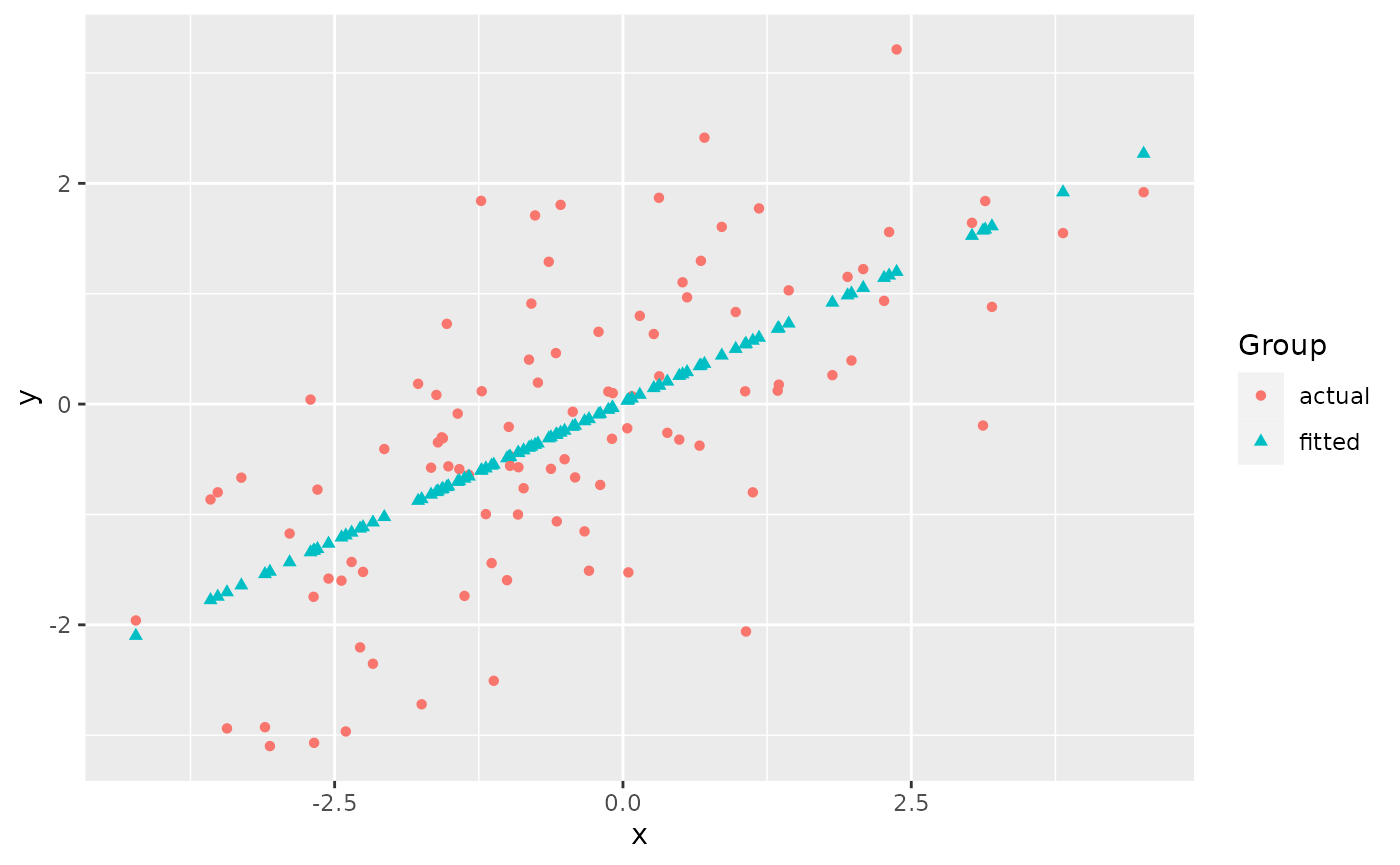
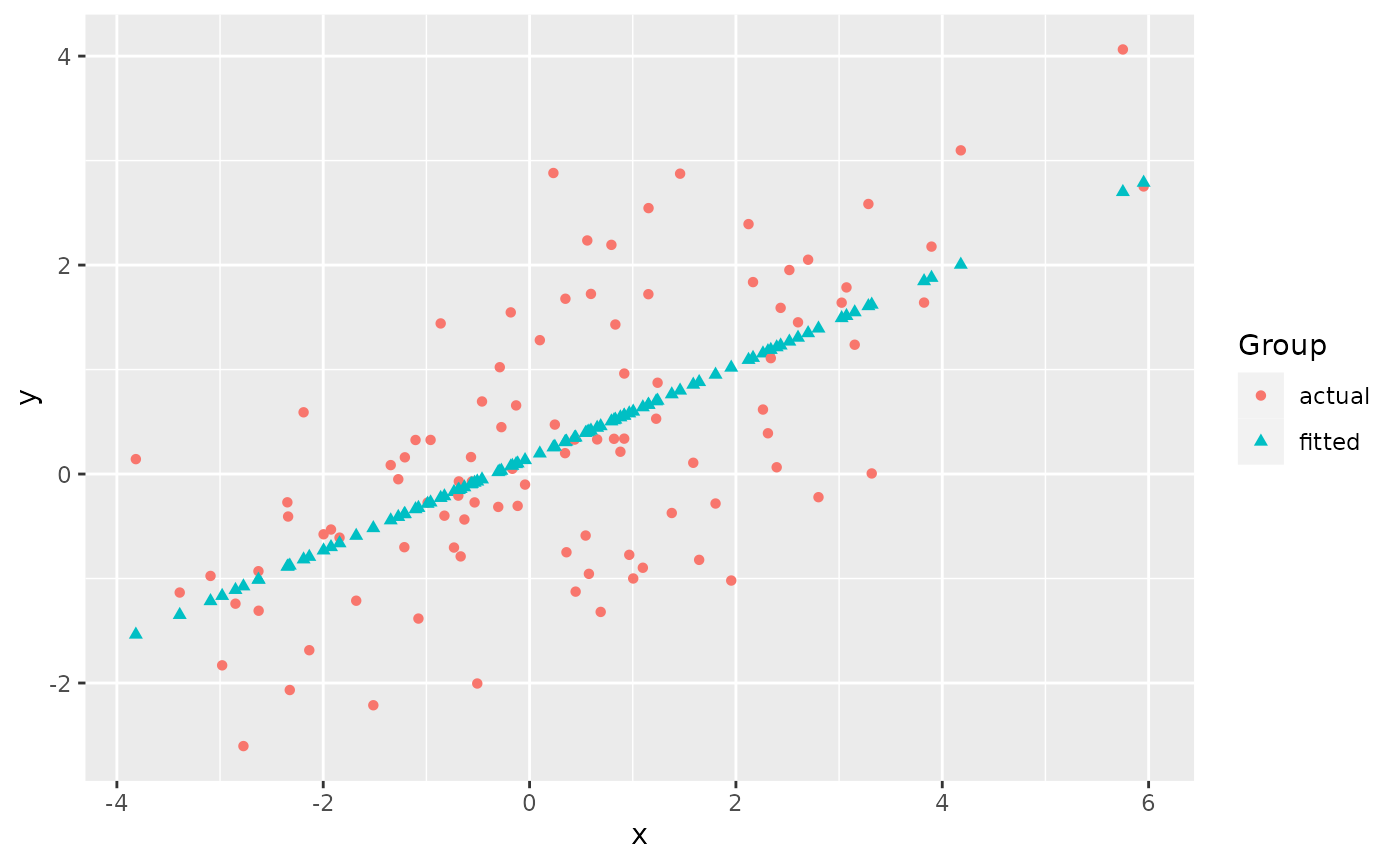
Built site for ggmatplot: 0.1.0@dbb841a

diff --git a/articles/ggmatplot.html b/articles/ggmatplot.html
@@ -101,7 +101,7 @@
 <span class="va">x</span> <span class="op">&lt;-</span> <span class="fu"><a href="https://rdrr.io/r/base/c.html">c</a></span><span class="op">(</span><span class="fu"><a href="https://rdrr.io/r/stats/Normal.html">rnorm</a></span><span class="op">(</span><span class="fl">100</span>, sd <span class="op">=</span> <span class="fl">2</span><span class="op">)</span><span class="op">)</span>
 
 <span class="fu"><a href="https://rdrr.io/r/utils/head.html">head</a></span><span class="op">(</span><span class="va">x</span><span class="op">)</span>
-<span class="co">#&gt; [1] -1.5611778 -0.3331428 -0.9101496 -0.7941767 -1.4189775  4.5147747</span>
+<span class="co">#&gt; [1] -2.3476193  1.1530509 -0.2732262  0.8315619 -1.2087926  0.5433656</span>
 
 <span class="co"># matrix z</span>
 <span class="va">y</span> <span class="op">&lt;-</span> <span class="va">x</span> <span class="op">*</span> <span class="fl">0.5</span> <span class="op">+</span> <span class="fu"><a href="https://rdrr.io/r/stats/Normal.html">rnorm</a></span><span class="op">(</span><span class="fl">100</span>, sd <span class="op">=</span> <span class="fl">1</span><span class="op">)</span>
@@ -111,12 +111,12 @@
 
 <span class="fu"><a href="https://rdrr.io/r/utils/head.html">head</a></span><span class="op">(</span><span class="va">z</span><span class="op">)</span>
 <span class="co">#&gt;       actual     fitted</span>
-<span class="co">#&gt; 1 -0.3098364 -0.7688639</span>
-<span class="co">#&gt; 2 -1.1533775 -0.1549690</span>
-<span class="co">#&gt; 3 -1.0007607 -0.4434148</span>
-<span class="co">#&gt; 4  0.9104163 -0.3854399</span>
-<span class="co">#&gt; 5 -0.5893815 -0.6977780</span>
-<span class="co">#&gt; 6  1.9195787  2.2685061</span></code></pre></div>
+<span class="co">#&gt; 1 -0.2705955 -0.8863081</span>
+<span class="co">#&gt; 2  2.5452252  0.6636685</span>
+<span class="co">#&gt; 3  0.4488514  0.0321620</span>
+<span class="co">#&gt; 4  1.4312502  0.5213242</span>
+<span class="co">#&gt; 5  0.1600032 -0.3820747</span>
+<span class="co">#&gt; 6 -0.5886030  0.3937208</span></code></pre></div>
 <p><code>ggmatplot</code> plots vector <code>x</code> against each column of matrix <code>z</code> using the default <code>plot_type = "point"</code>. This will be represented on the resulting plot as two groups, identified using different shapes and colors.</p>
 <div class="sourceCode" id="cb2"><pre class="downlit sourceCode r">
 <code class="sourceCode R"><span class="kw"><a href="https://rdrr.io/r/base/library.html">library</a></span><span class="op">(</span><span class="va"><a href="https://github.com/xuan-liang/ggmatplot">ggmatplot</a></span><span class="op">)</span>
